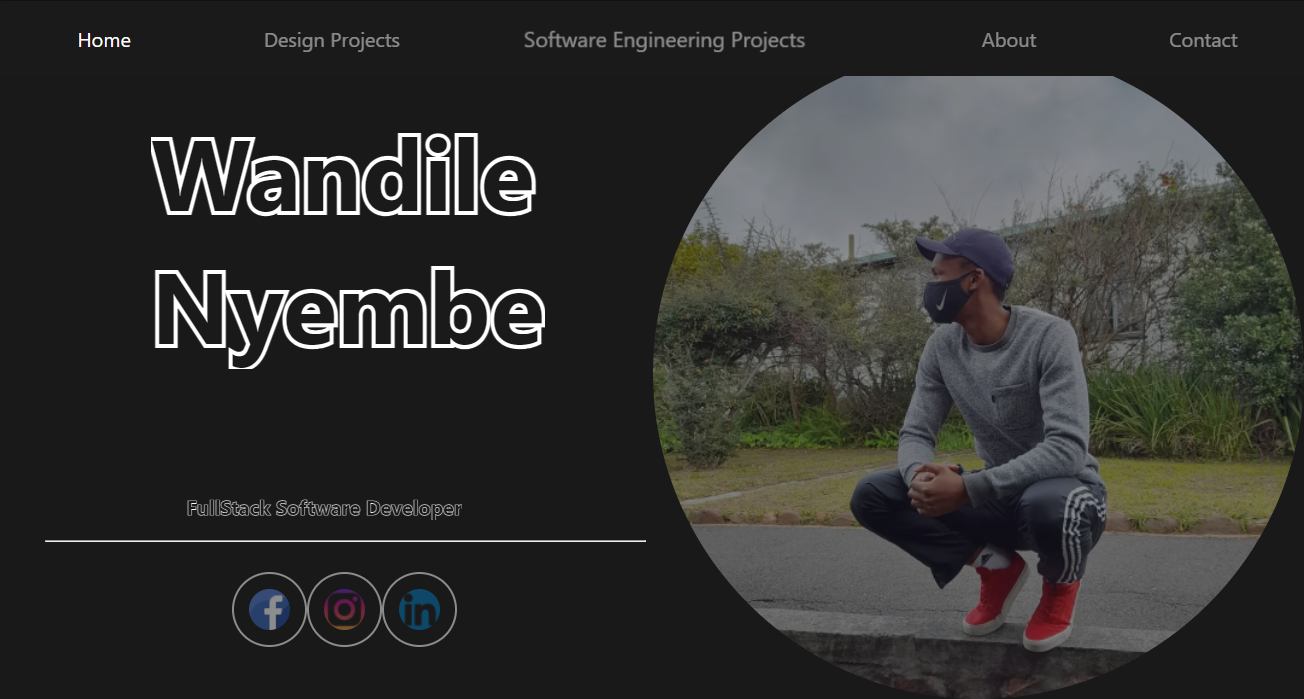
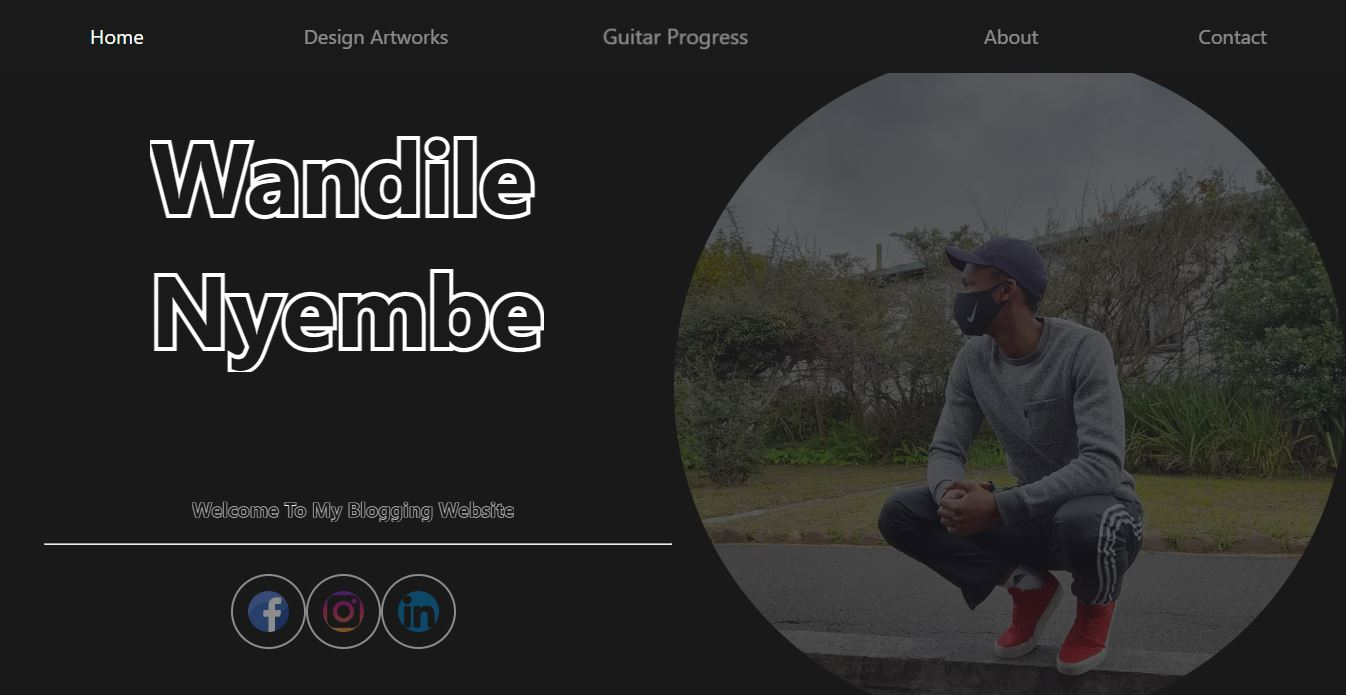
Changed Cover page

diff --git a/src/Components/header/Header.css b/src/Components/header/Header.css
@@ -1,36 +1,90 @@
 header {
-    height: 100vh;
+    height: 80vh;
     padding-top: 7rem;
     overflow: hidden;
+    gap: 2rem;
 }
 
 .header__container {
-    text-align: center;
+    align-items: center;
     height: 100%;
+    display: flex;
+    flex-direction: column;
     position: relative;
+    background: var(--colour-bg-variant);
+    border: 1px solid transparent;
+    border-radius: 1rem;
+    padding: 2rem;
+    text-align: center;
+    transition: var(--transition);
 }
 
+.about__card {
+    background: var(--colour-bg-variant);
+    border: 1px solid transparent;
+    border-radius: 1rem;
+    padding: 2rem;
+    text-align: center;
+    transition: var(--transition);
+}
+
+.header__container:hover {
+    background: transparent;
+    border-color: var(--colour-primary-variant);
+    cursor: default;
+}
+
+.myname {
+    font-size: 3rem;
+}
+
+.header__details {
+    align-items: center;
+    display: flex;
+    flex-direction: column;
+    left: 0;
+
+}
 /******************** CTA ********************************/
 
 .CTA {
     margin-top: 2.5rem;
     display: flex;
     gap: 1.2rem;
-    justify-content: center;
+    /*justify-content: center;*/
 }
 
 /******************** Header Socials ********************************/
 
 .header__socials {
+    /*display: flex;
+    flex-direction: column;*/
+    margin-top: 3rem;
     display: flex;
-    flex-direction: column;
-    align-items: center;
+    gap: 1rem;
+    margin-bottom: 4rem;
+    /*align-items: center;
     gap: 0.8rem;
     position: absolute;
     left: 0;
-    bottom: 3rem;
+    bottom: 3rem;*/
 }
 
+.header__socials a {
+    background: var(--colour-primary);
+    color: var(--colour-bg);
+    padding: 0.8rem;
+    border-radius: 0.7rem;
+    display: flex;
+    border: 1px solid transparent;
+}
+
+.header__socials a:hover {
+    background: transparent;
+    color: var(--colour-primary);
+    border-color: var(--colour-primary);
+}
+/*
 .header__socials::after {
     content: "";
     width: 1px;
@@ -43,36 +97,39 @@ header {
     width: 1px;
     height: 4rem;
     background: var(--colour-primary);
-}
+}*/
 
 /************************* My Image *********************************/
 
 .me {
-    width: 22rem;
-    height: 30rem;
+    display: none; }
+    /*width: 20rem;
+    height: 22rem;
     position: absolute;
-    left: calc(50% - 11rem);
+    left: calc(60%);
+    border-radius: 2rem;
+    /*left: calc(50% - 11rem);*
     margin-top: 4rem;
-    border-radius: 12rem 12rem 0 0;
-    /*border: 2.5px solid var(--colour-primary);*/
+    /*border-radius: 12rem 12rem 0 0;
+    /*border: 2.5px solid var(--colour-primary);
     overflow: hidden;
     padding: -1rem 1.5rem 1.5rem 1.5rem;
     -webkit-mask-image:-webkit-gradient(linear, left top, left bottom, from(rgba(0,0,0,1)), to(rgba(0,0,0,0)));
-    mask-image: linear-gradient(to bottom, rgb(0, 0, 0, 1), rgba(0, 0, 0, 0));
+    mask-image: linear-gradient(to bottom, rgb(0, 0, 0, 1), rgba(0, 0, 0, 0));*/
 
     /* To make image a circle
     border-radius: 50%;
     border: 2px solid;
     border-color: rgb(255, 255, 255);
-    */
-}
+    *
+}*/
 
 /************************* Scroll down *********************************/
 .scroll__down {
     position: absolute;
-    right: -2.5rem;
-    bottom: 5rem;
-    transform: rotate(90deg);
+    /*right: -2.5rem;*/
+    transform: translateY(15rem);
+    /*transform: rotate(90deg);*/
     font-weight: 300;
     font-size: 0.9rem
 }
@@ -86,12 +143,20 @@ header {
 
 /************************* Media Queries (Medium Devices) ***************************/
 @media screen and (max-width: 1024px) {
+    .header__container {
+        gap: 2rem;
+    }
+
     header {
         height: 70vh;
     }
 
+    .myname {
+        font-size: 2rem;
+    }
+
     .header__socials {
-        bottom: 15rem;
+        margin-top: 5rem;
     }
 
     .scroll__down {
@@ -101,11 +166,10 @@ header {
 
 /************************* Media Queries (Small Devices) **************************/
 @media screen and (max-width: 700px) {
+    .header__continer {
+        gap: 3rem;
+    }
     header {
         height: 110vh;
-    }
-
-    .header__socials, .scroll__down {
-        display: none;
     }
 }

diff --git a/src/Components/portfolio/Portfolio.jsx b/src/Components/portfolio/Portfolio.jsx
@@ -10,17 +10,6 @@ const Portfolio = () => {
       <h2>Portfolio</h2>
 
       <div className="container portfolio__container">
-        
-        <article className="portfolio__item">
-          <div className="portfolio__item-image">
-            <img src={IMG1} alt="" />
-          </div>
-          <h3>Ecommerce Artworks Store</h3>
-          <div className="portfolio__item-cta">
-            <a href="https://github.com/" className="btn" target="_blank">Github</a>
-            <a href="" className="btn btn-primary" target="_blank">Live Demo</a>
-          </div>
-        </article>
 
         <article className="portfolio__item">
           <div className="portfolio__item-image">
@@ -29,7 +18,7 @@ const Portfolio = () => {
           <h3>Blogging Website</h3>
           <div className="portfolio__item-cta">
             <a href="https://github.com/" className="btn" target="_blank">Github</a>
-            <a href="" className="btn btn-primary" target="_blank">Live Demo</a>
+            <a href="https://waynium.github.io/Blogging-Website/#" className="btn btn-primary" target="_blank">Live Demo</a>
           </div>
         </article>
 

diff --git a/src/Components/header/Header.jsx b/src/Components/header/Header.jsx
@@ -2,23 +2,21 @@ import React from 'react'
 import './Header.css'
 import CTA from './CTA'
 import HeaderSocials from './HeaderSocials'
-import waynium from '../../images/images/waynium2.jpg'
+import ME from '../../images/images/stellies2.jpg'
 
 const Header = () => {
   return (
     <header>
       <div className="container header__container">
-        <h5>Hello I am</h5>
-        <h1>Wandile Nyembe</h1>
-        <h5 className="text-light">Fullstack Developer</h5>
+        <h5>Hello I am</h5> 
+        <h1 className="myname">Wandile Nyembe</h1>
+        <h3 className="text-light">Fullstack Developer</h3>
         <CTA />
         <HeaderSocials />
-
-        <div className="me">
-          <img src={waynium} alt="me" />
+      
+        <div>
+          <img src={ME} className="me" alt="propic" />
         </div>
-
-        <a href="#contact" className="scroll__down">Scroll Down</a>
 
       </div>
     </header>

diff --git a/src/Components/about/About.jsx b/src/Components/about/About.jsx
@@ -1,6 +1,7 @@
 import React from 'react'
 import './About.css'
-import ME from '../../images/images/stellies2.jpg'
+/*import ME from '../../images/images/stellies2.jpg'*/
+import waynium from '../../images/images/waynium2.jpg'
 import {IoIosChatbubbles} from 'react-icons/io'
 import {GiSoccerBall} from 'react-icons/gi'
 //import {VscFolderLibrary} from 'react-icons/vsc'
@@ -8,13 +9,13 @@ import {GiSoccerBall} from 'react-icons/gi'
 const About = () => {
   return (
     <section id="about">
-      <h5>Get to know</h5>
+      <h5>Get to know me</h5>
       <h2>About Me</h2>
 
       <div className="container about__container">
         <div className="about__me">
           <div className="about__me-image">
-            <img src={ME} alt="About Image" />
+            <img src={waynium} alt="About Image" />
           </div>
         </div>
         <div className="about__content"> 

diff --git a/src/Components/footer/Footer.jsx b/src/Components/footer/Footer.jsx
@@ -7,7 +7,7 @@ import {FiLinkedin} from 'react-icons/fi'
 const Footer = () => {
   return (
     <footer>
-      <a href="#" className="footer__logo">Waynium.007</a>
+      <a href="#" className="footer__logo">Wandile Nyembe</a>
 
       <ul className="permalinks">
         <li><a href="#">Home</a></li>
@@ -24,8 +24,8 @@ const Footer = () => {
         <a href="https://www.linkedin.com/in/wandile-nyembe-a69bb31b8/"><FiLinkedin /></a>
       </div>
 
-      <div>
-        <small>&copy; Waynium.007 All rights reserved.</small>
+      <div className="footer__copyright">
+        <small>&copy; Copyright Wandile Nyembe 2022 - All rights reserved.</small>
       </div>
     </footer>
   )

diff --git a/src/Components/about/About.css b/src/Components/about/About.css
@@ -1,3 +1,7 @@
+#about {
+    margin-top: 2rem;
+}
+
 .about__container {
     display: grid;
     grid-template-columns: 40% 55%;
@@ -82,6 +86,10 @@ p {
 
 /************************* Media Queries (Medium Devices) ***************************/
 @media screen and (max-width: 1024px) {
+    #about {
+        margin-top: 2rem;
+    }
+    
     .about__container {
         grid-template-columns: 1fr;
         gap: 0;
@@ -99,6 +107,9 @@ p {
 
 /************************* Media Queries (Small Devices) **************************/
 @media screen and (max-width: 600px) {
+    #about {
+        margin-top: 2rem;
+    }
     .about__me {
         width: 65%;
         margin: 0 auto 3rem;
